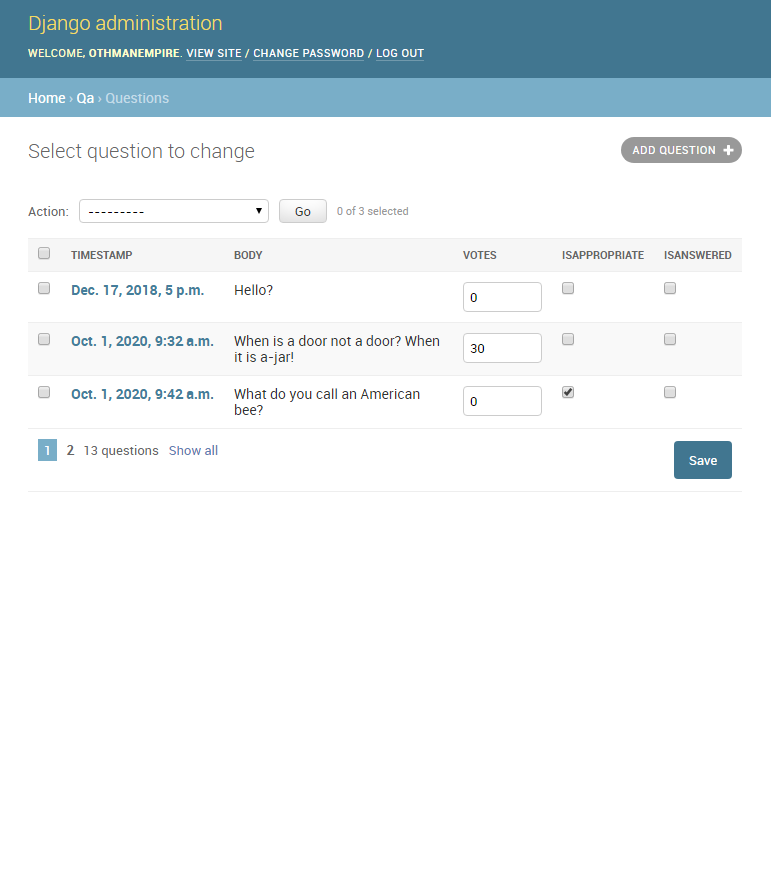
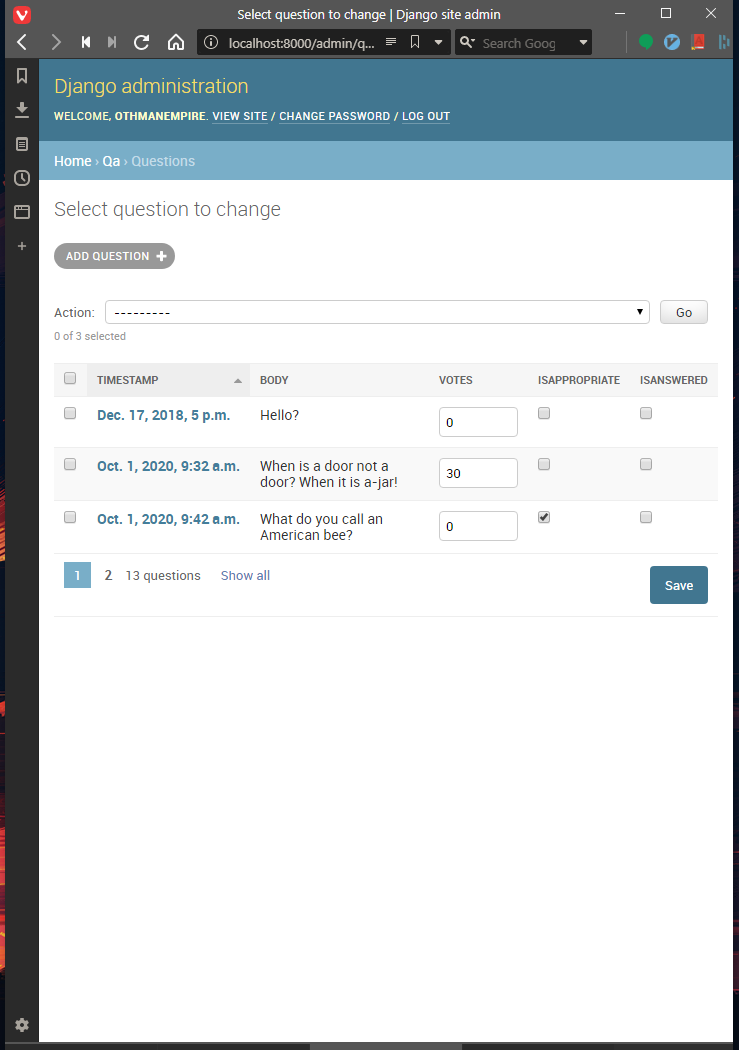
Updated README (changed preview images)

diff --git a/README.md b/README.md
@@ -4,7 +4,7 @@ Project Vote: I Vote Lincoln!
   <img align="middle" width=200 src="assets/splash_1.png">
   <img align="middle" width=200 src="assets/main_1.png">
   <img align="middle" width=200 src="assets/main_2.png">
-  <img align="middle" width=200 src="assets/backend_1.png">
+  <img align="middle" width=250 src="assets/backend_1.png">
 </p>
 
 Project Vote is a web application written with Django that was used as the 
